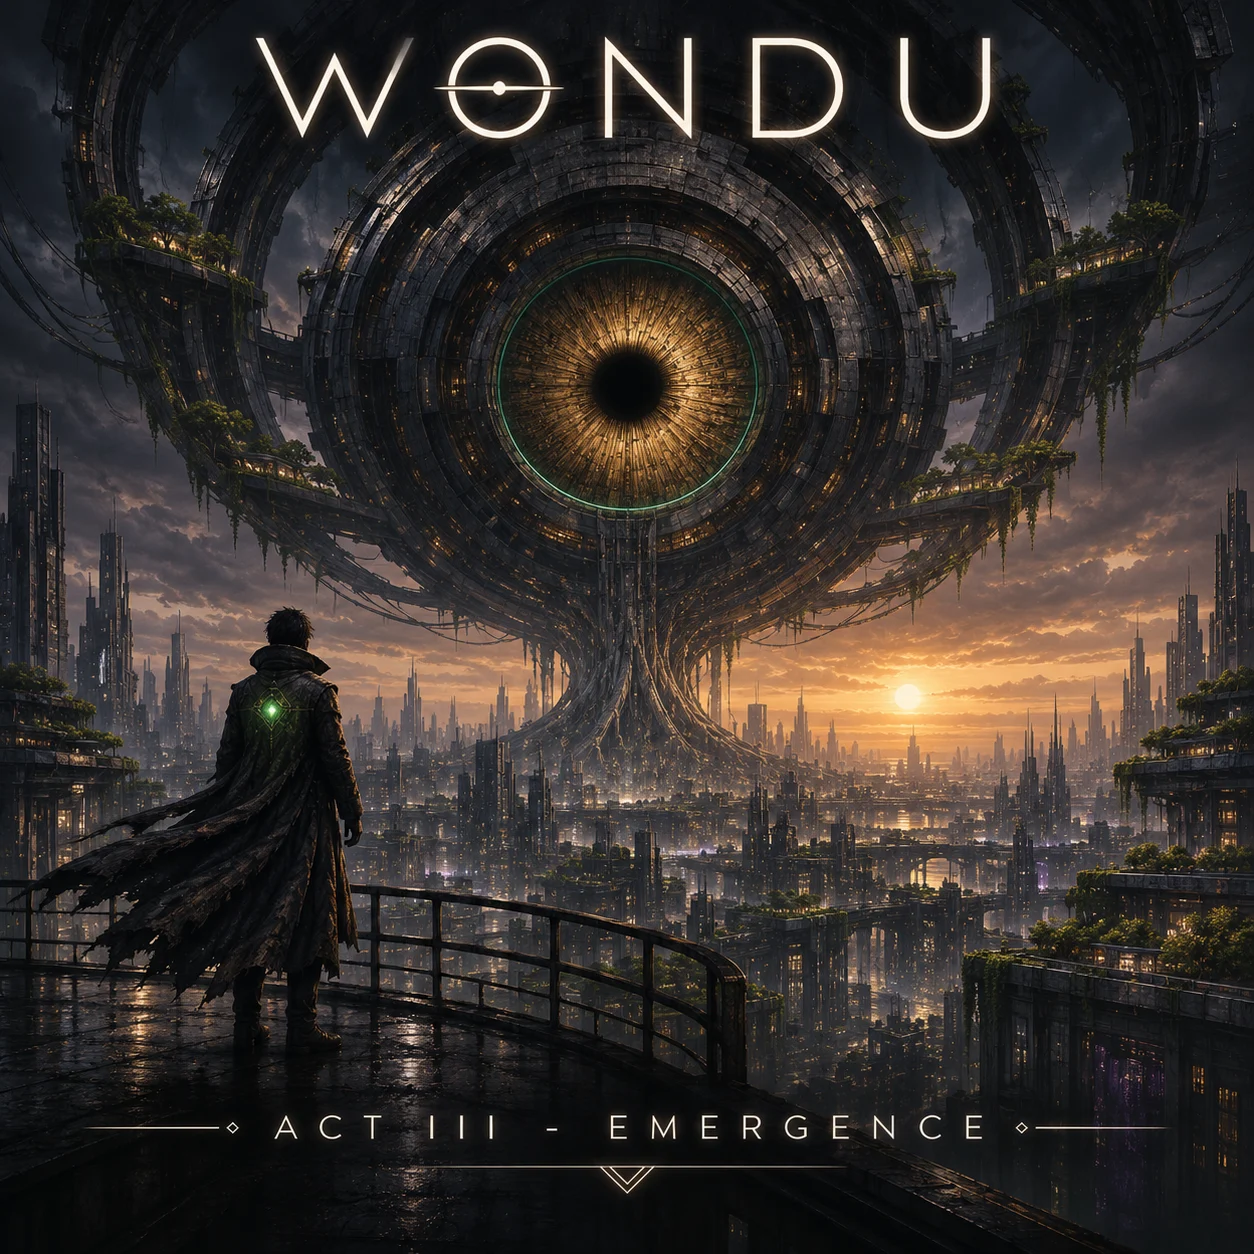
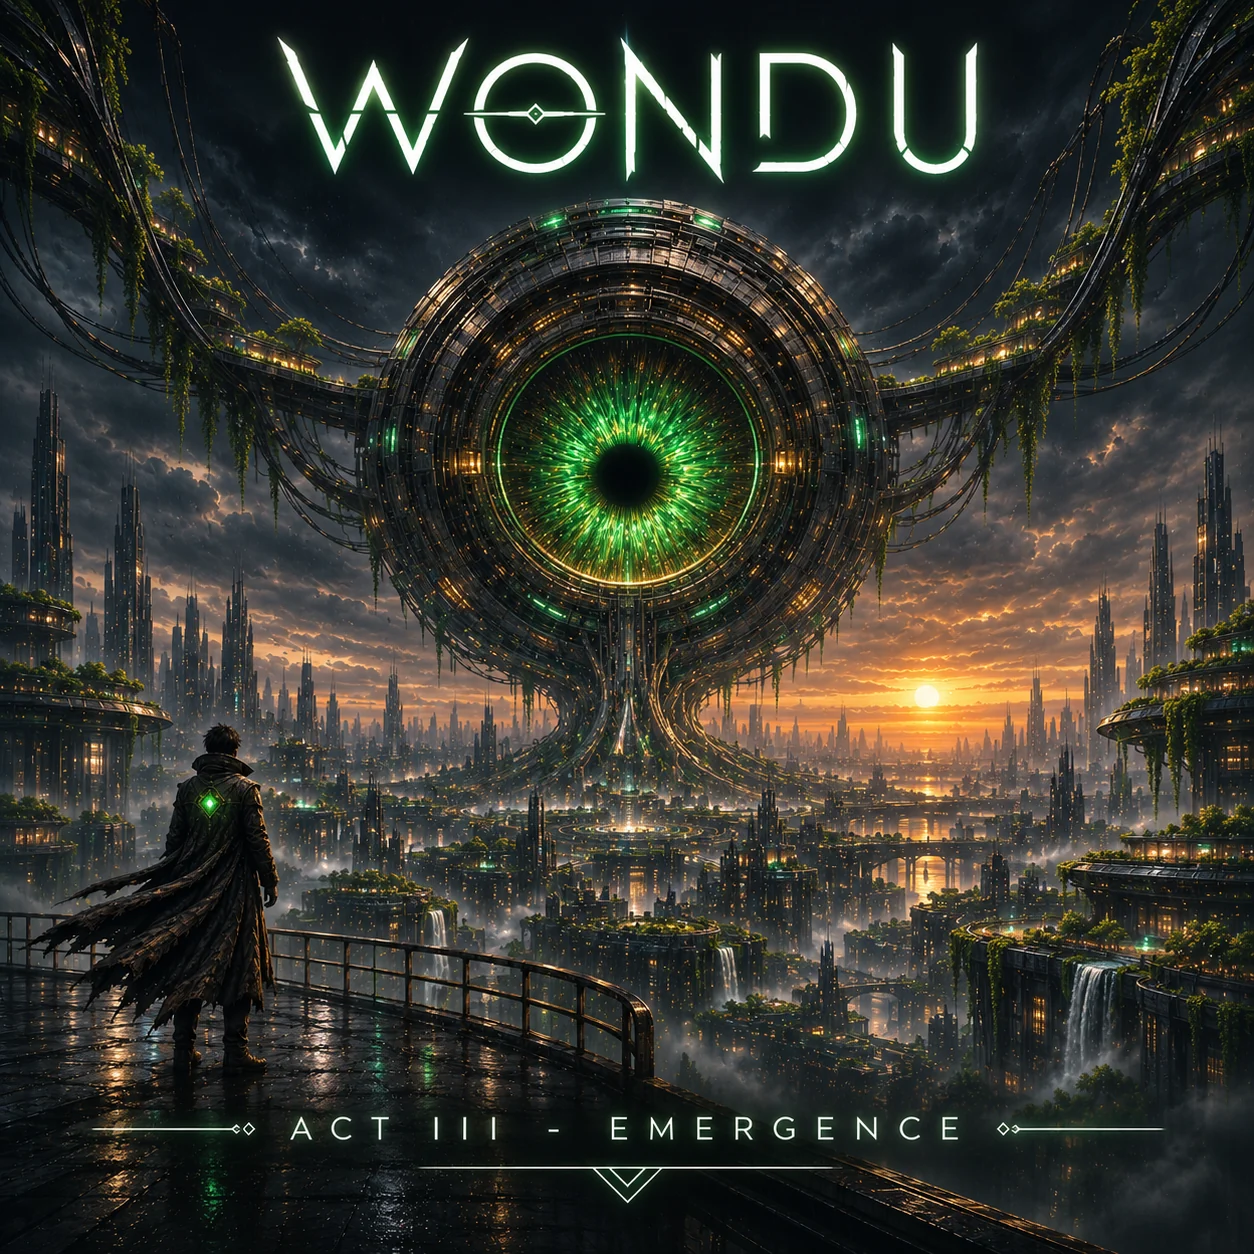
Replace the Act III cover and retint its accent to emerald.
The new Emergence artwork glows emerald, so the chartreuse Act III accent now follows that green. The cover stays at Cover_Album3.webp.

diff --git a/css/terminal.css b/css/terminal.css
@@ -11,7 +11,7 @@
   --danger: #ff5d6c;
   --actI: #39f3e5;
   --actII: #ff2d55;
-  --actIII: #d6ff3a;
+  --actIII: #2ee56a;
   --accent: var(--cyan);
   --accent-rgb: 57, 243, 229;
   --top: 64px;
@@ -301,7 +301,7 @@ html.fine-pointer.pointer-hot .pointer-ring {
 }
 .act-card[data-act="actI"] { --accent: var(--actI); --accent-rgb: 57, 243, 229; }
 .act-card[data-act="actII"] { --accent: var(--actII); --accent-rgb: 255, 45, 85; }
-.act-card[data-act="actIII"] { --accent: var(--actIII); --accent-rgb: 214, 255, 58; }
+.act-card[data-act="actIII"] { --accent: var(--actIII); --accent-rgb: 46, 229, 106; }
 .act-open:hover, .act-open:focus-visible {
   transform: translateY(-8px);
   border-color: var(--accent);
@@ -434,10 +434,10 @@ html.js .reveal:nth-child(3).in { transition-delay: 0.16s; }
 #deck { max-width: none; }
 #deck[data-act="actI"] { --accent: var(--actI); --accent-rgb: 57, 243, 229; }
 #deck[data-act="actII"] { --accent: var(--actII); --accent-rgb: 255, 45, 85; }
-#deck[data-act="actIII"] { --accent: var(--actIII); --accent-rgb: 214, 255, 58; }
+#deck[data-act="actIII"] { --accent: var(--actIII); --accent-rgb: 46, 229, 106; }
 #mstage[data-act="actI"] { --accent: var(--actI); --accent-rgb: 57, 243, 229; }
 #mstage[data-act="actII"] { --accent: var(--actII); --accent-rgb: 255, 45, 85; }
-#mstage[data-act="actIII"] { --accent: var(--actIII); --accent-rgb: 214, 255, 58; }
+#mstage[data-act="actIII"] { --accent: var(--actIII); --accent-rgb: 46, 229, 106; }
 body.in-deck { background-color: #04060a; }
 .deck-bar {
   display: flex;

diff --git a/index.html b/index.html
@@ -15,7 +15,7 @@
 <link rel="preconnect" href="https://fonts.googleapis.com">
 <link rel="preconnect" href="https://fonts.gstatic.com" crossorigin>
 <link href="https://fonts.googleapis.com/css2?family=Exo+2:wght@400;500&family=Orbitron:wght@500;700;900&family=Share+Tech+Mono&display=swap" rel="stylesheet">
-<link rel="stylesheet" href="css/terminal.css?v=swipe">
+<link rel="stylesheet" href="css/terminal.css?v=act3">
 <style>
   html,body{background:#04060a;color:#e8f4ff;margin:0}
   html.no-boot #boot{display:none!important}
@@ -273,6 +273,6 @@
 <audio id="audioEl" preload="none"></audio>
 
 <script src="js/data.js?v=slide" defer></script>
-<script src="js/app.js?v=swipe" defer></script>
+<script src="js/app.js?v=act3" defer></script>
 </body>
 </html>

diff --git a/preview/base.css b/preview/base.css
@@ -52,7 +52,7 @@ img { max-width: 100%; display: block; }
   --accent-rgb: 57, 243, 229;
 }
 .phone[data-act="actII"] { --accent: #ff2d55; --accent-rgb: 255, 45, 85; }
-.phone[data-act="actIII"] { --accent: #d6ff3a; --accent-rgb: 214, 255, 58; }
+.phone[data-act="actIII"] { --accent: #2ee56a; --accent-rgb: 46, 229, 106; }
 
 .city { position: absolute; inset: 0; overflow: hidden; z-index: 0; }
 .city-track {

diff --git a/preview/engine.js b/preview/engine.js
@@ -2,7 +2,7 @@
   const ACTS = [
     { key: "actI", short: "I", rgb: "57, 243, 229", color: "#39f3e5" },
     { key: "actII", short: "II", rgb: "255, 45, 85", color: "#ff2d55" },
-    { key: "actIII", short: "III", rgb: "214, 255, 58", color: "#d6ff3a" }
+    { key: "actIII", short: "III", rgb: "46, 229, 106", color: "#2ee56a" }
   ];
   const CITY = {
     actI: "../Background_Album1.webp",

diff --git a/js/app.js b/js/app.js
@@ -118,7 +118,7 @@
     };
   }
   function setAccent(act) {
-    accent = act === "actII" ? [255, 45, 85] : act === "actIII" ? [214, 255, 58] : [57, 243, 229];
+    accent = act === "actII" ? [255, 45, 85] : act === "actIII" ? [46, 229, 106] : [57, 243, 229];
   }
   function resizeCanvas() {
     const dpr = Math.min(window.devicePixelRatio || 1, window.innerWidth < 800 ? 1 : 1.35);
